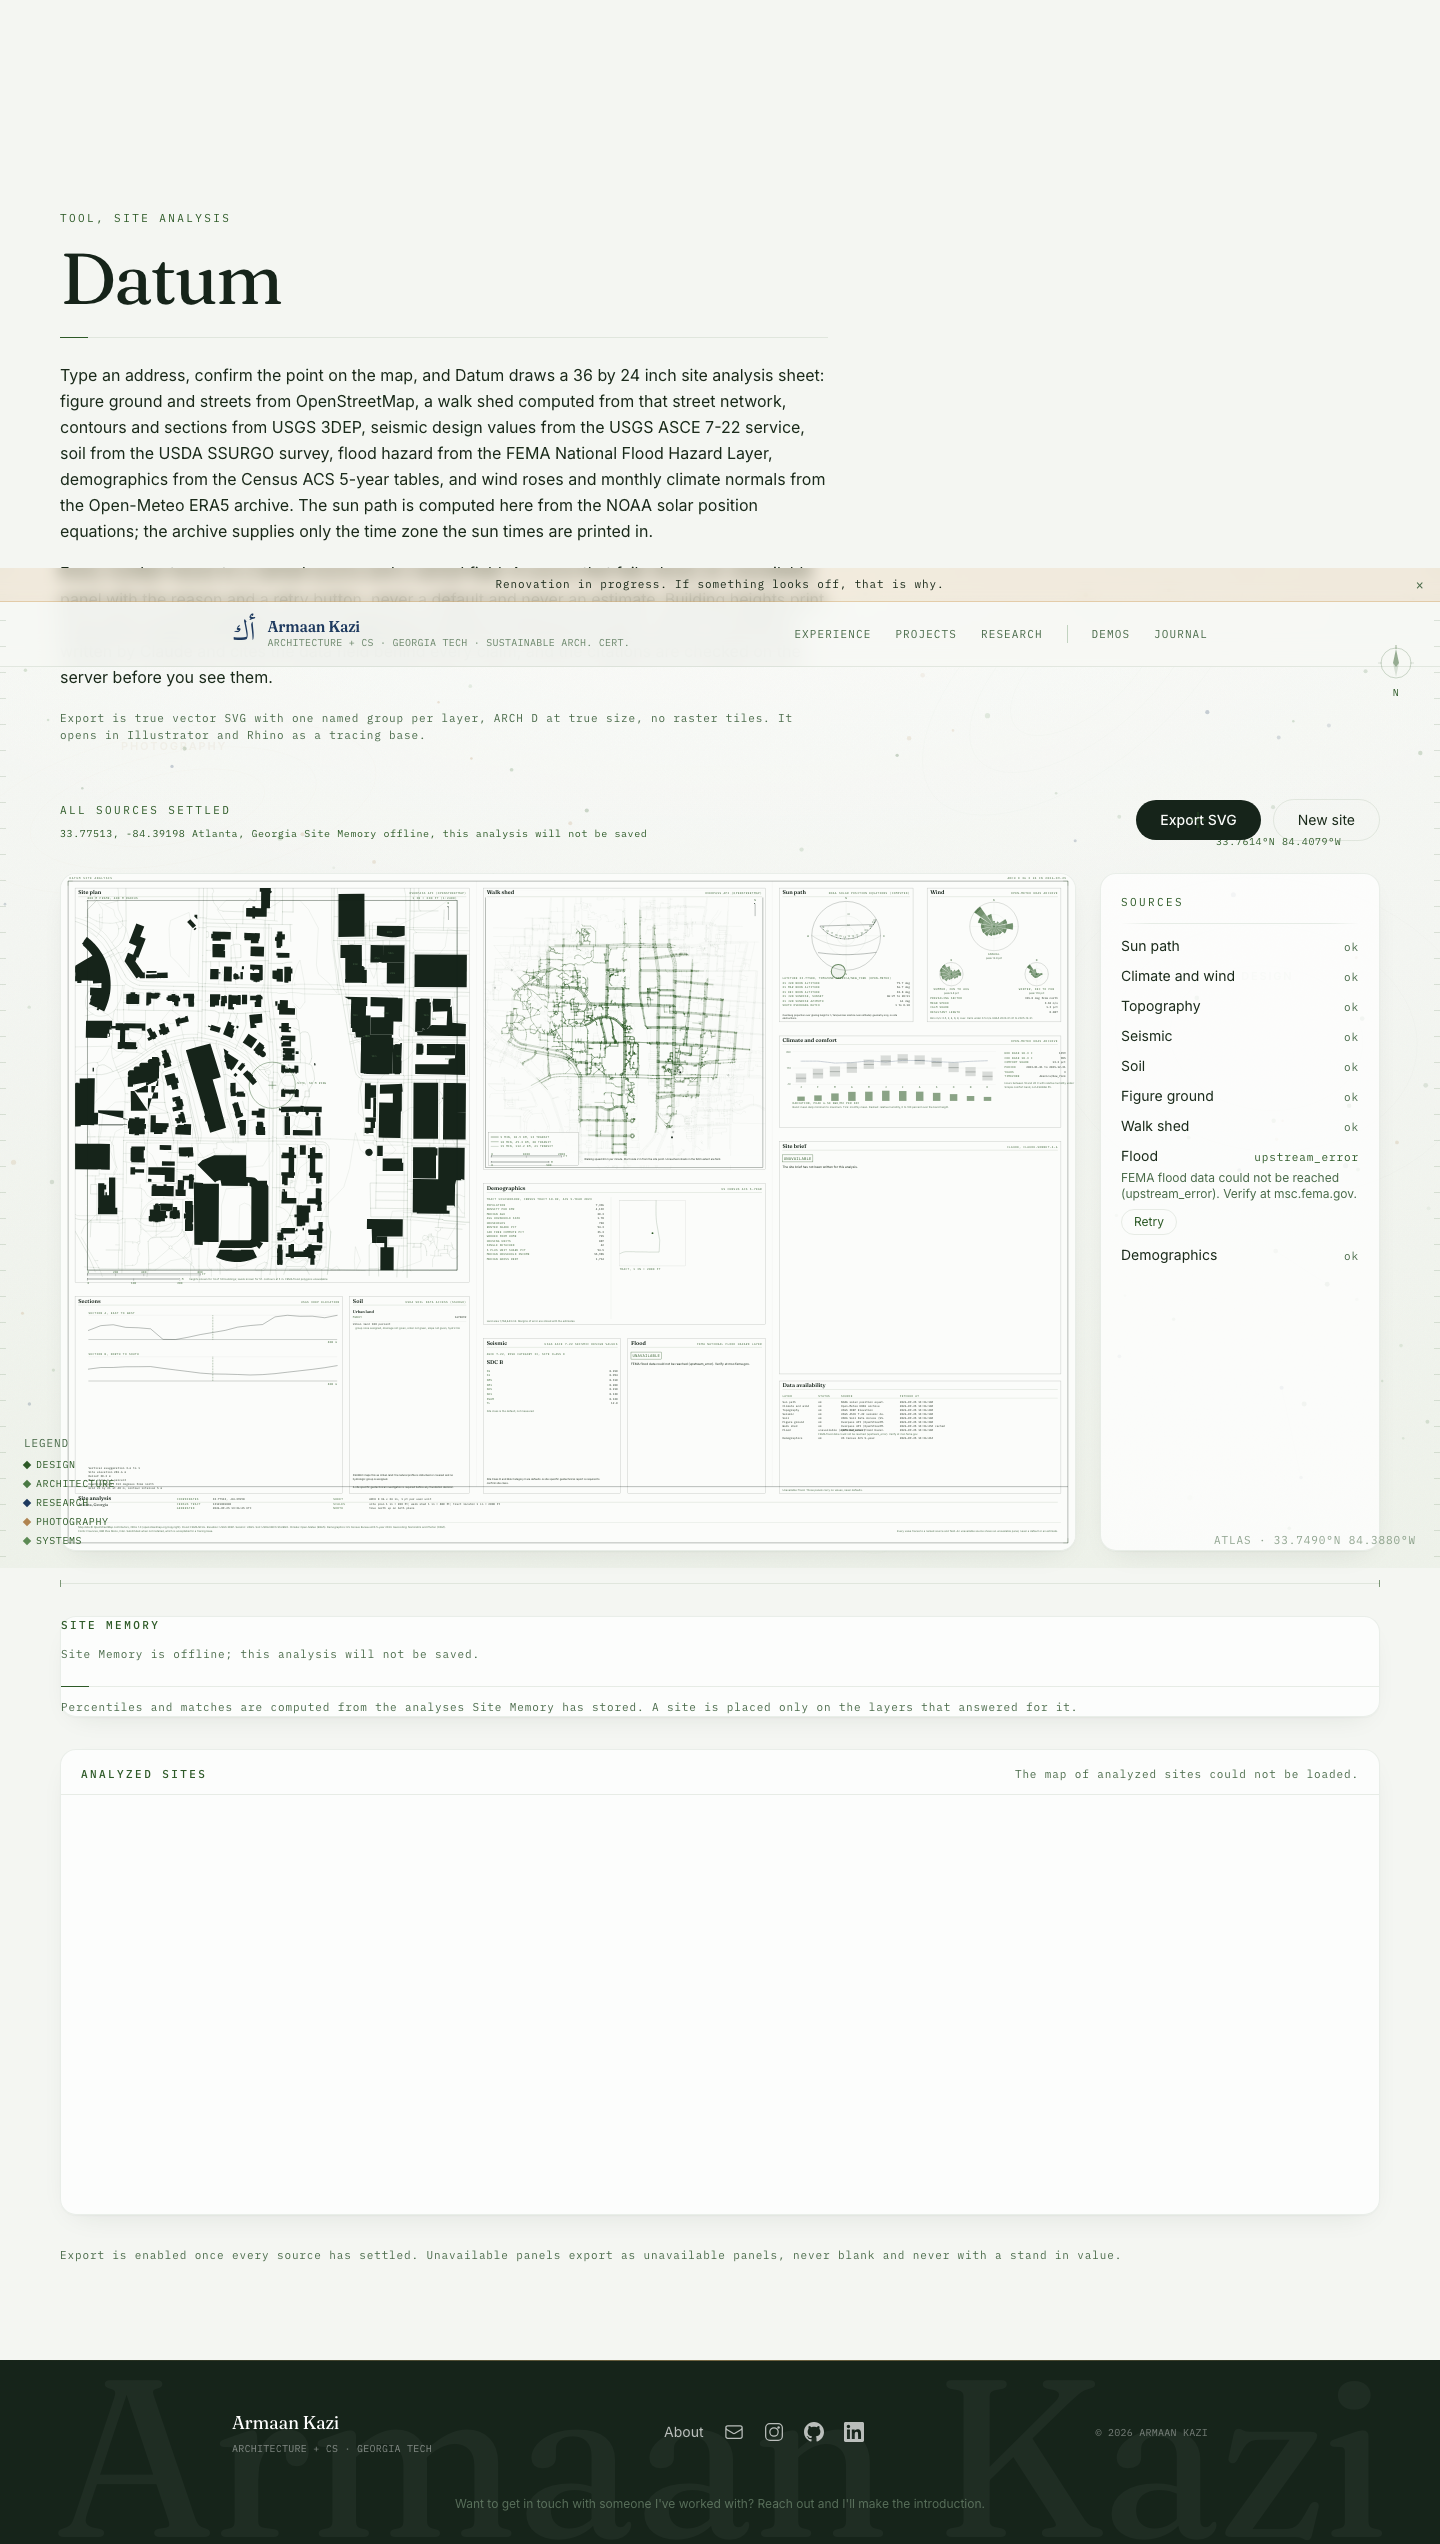
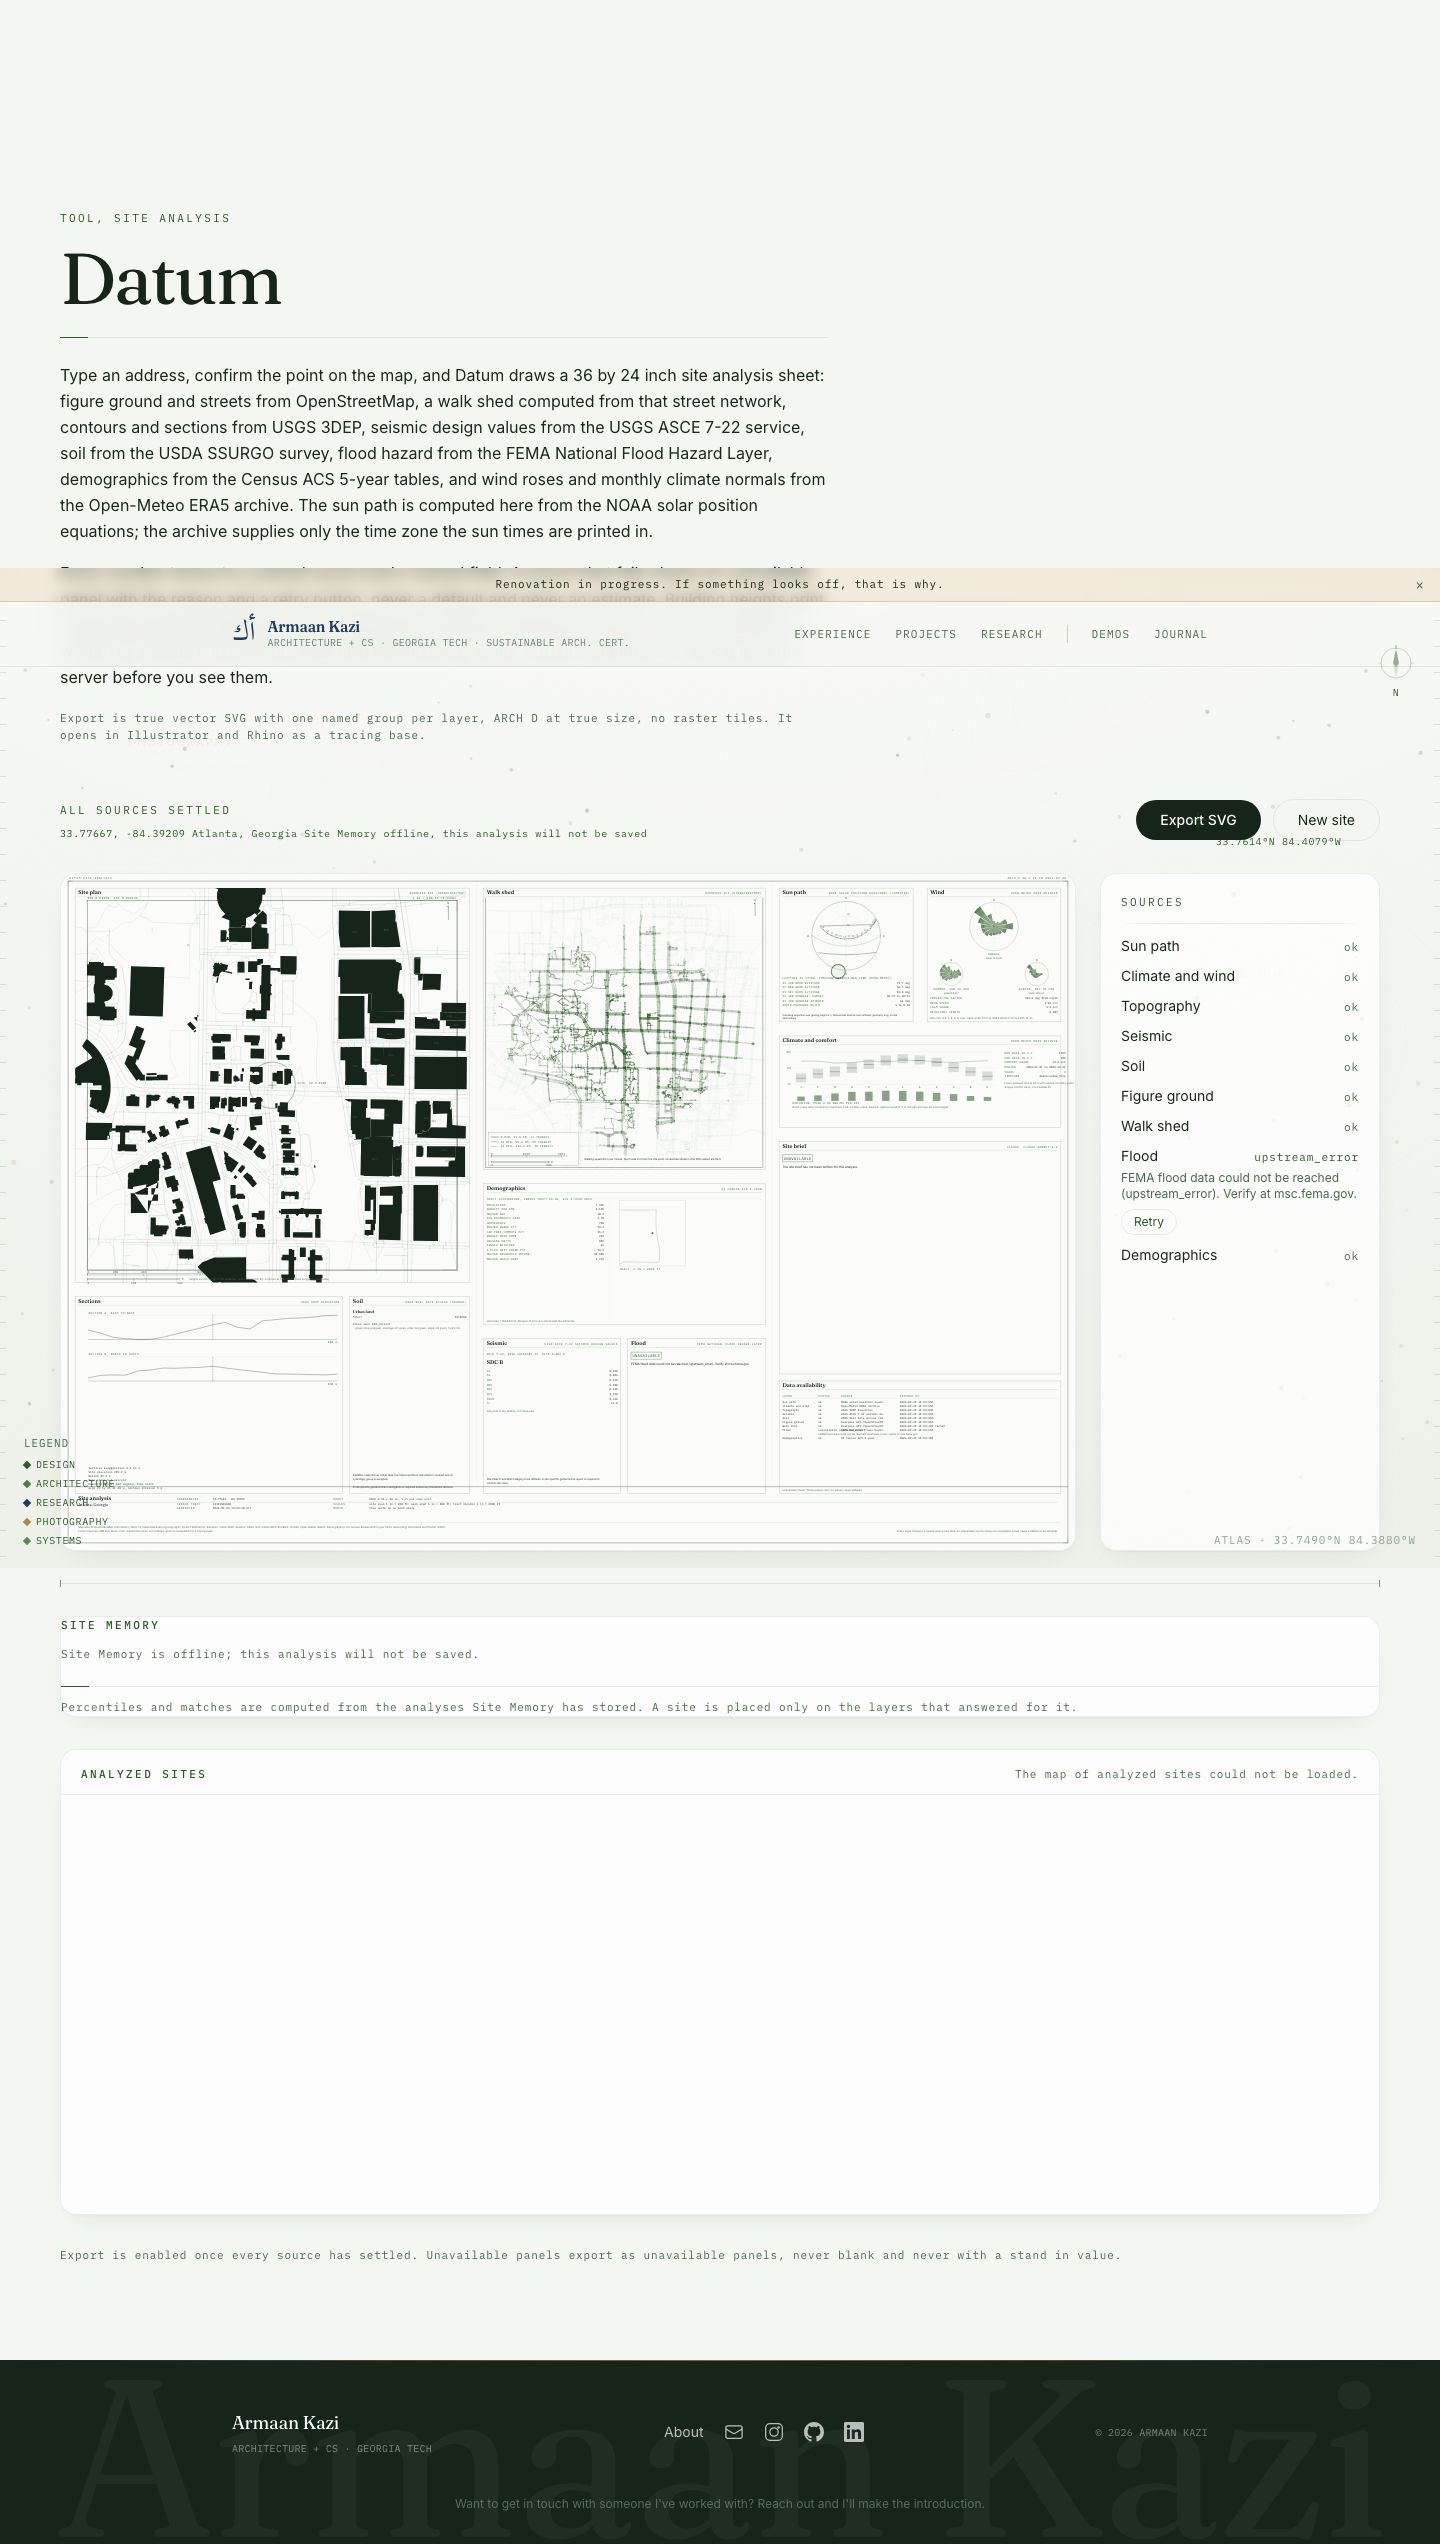
test(datum): Phase 3 database mode observed; memory panel screenshot

Changed region(s): [[0.0312, 0.3416, 0.5312, 0.5279]]

diff --git a/docs/datum/PROGRESS.md b/docs/datum/PROGRESS.md
@@ -919,3 +919,33 @@ Next action: owner applies the amended migration 0002 and sets CRON_SECRET; then
 runs the step 3.1 checks, the seed run, percentiles, similar sites for Atlanta, Miami and
 WaKeeney, the map, the page screenshot, the brief replay, the ping with the secret, and the
 offline run, and records the observed values.
+
+## Blocking item 3: Phase 3 database mode, OBSERVED (2026-09-25)
+
+Owner applied the amended migration 0002 and set CRON_SECRET (local and Vercel). Question 18:
+keep the 503 (owner). Step 3.1 through the app's client: the four metrics columns selectable;
+briefs table present; metric_percentile answers (null, n 0 on the empty corpus); a test row and a
+real row coexist at one site_key; an exact duplicate is refused (23505).
+
+Run: dev server with DATUM_ALLOW_TEST_FLAG=1 DATUM_INCLUDE_TEST_SITES=1 (the only mode where
+the is_test seeds count; open question 16 stands for the phase file wording), test process
+DATUM_E2E_DB=1 with CRON_SECRET. First pass: the seed run passed (12 of 12 sites got a vector,
+masks 10 to 13 of 14; flood absent everywhere, soil group absent at the urban sites) and the
+context test failed on a stale key set assertion (the new `sharedComponents` field); fixed in
+`fa3f51e` (stricter key set), second pass all seven database tests passed:
+
+| Check | Observed |
+|---|---|
+| seed run | 12 of 12 with a vector, 1.3 m on the second pass (cache warm) |
+| Atlanta context | n 12; more sun than 33%, more built coverage than 55%, more street reach than 58%, more relief than 75%, more wind than 42%, more density than 50%; five similar sites |
+| similar sites, Atlanta | Asheville 93, Boston 90, Denver 89, New Orleans 86, Miami 83 (11 to 12 shared components); missing sfhaShare, hydrologicGroup |
+| similar sites, Miami | New Orleans 89, Atlanta 83, Boston 82, Phoenix 80, Asheville 78; missing hydrologicGroup |
+| similar sites, WaKeeney | Marfa 85, Asheville 78, Denver 76, New Orleans 76, Phoenix 75; missing sfhaShare |
+| map | 12 public points, two decimals, no lat, lng, or site_key |
+| page | Atlanta page shows the memory panel and the sites map; `docs/datum/screenshots/phase-3/atlanta-memory.png` |
+| brief replay | the second Atlanta brief is the stored one (cached true, identical text) |
+| ping | 401 for missing, wrong, and wrongly schemed bearer; 200 with the secret, sites 12, swept 0 |
+| offline run (earlier the same day) | analysis completes offline; a layer resolves through the fallback id with Site Memory offline |
+
+Atlanta and Miami both receive similar sites after the section 14 amendment. The twelve seed
+rows remain in the database as is_test rows (the test mode corpus); no non test row exists.
